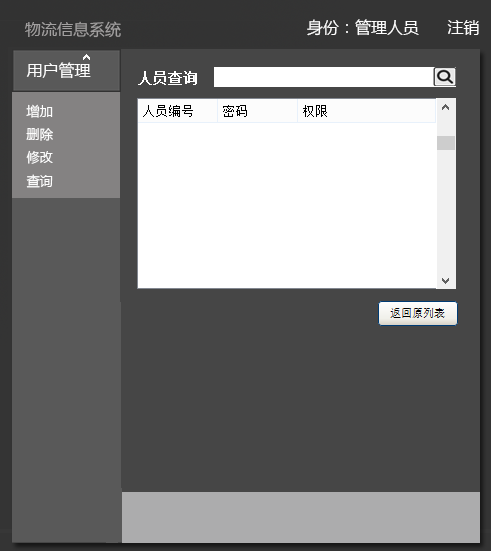
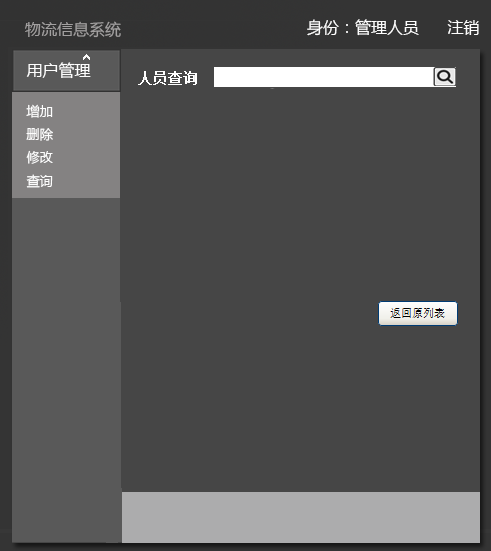
table

Changed region(s): [[0.2749, 0.1543, 0.947, 0.5245]]

diff --git a/ExpressSystem/client/src/main/java/nju/sec/yz/ExpressSystem/presentation/componentui/newTable.java b/ExpressSystem/client/src/main/java/nju/sec/yz/ExpressSystem/presentation/componentui/newTable.java
@@ -3,14 +3,28 @@ package nju.sec.yz.ExpressSystem.presentation.componentui;
  * @author YU Fan
  * @usage 用来显示带滚动条的表格
  */
+import java.awt.BasicStroke;
+import java.awt.Color;
+import java.awt.Component;
+import java.awt.Font;
+import java.awt.Graphics;
+import java.awt.Graphics2D;
+import java.awt.Stroke;
+import java.util.Vector;
+import java.util.function.UnaryOperator;
+
 import javax.swing.DefaultCellEditor;
 import javax.swing.JComboBox;
+import javax.swing.JLabel;
 import javax.swing.JPanel;
 import javax.swing.JScrollPane;
 import javax.swing.JTable;
 import javax.swing.event.TableModelEvent;
 import javax.swing.event.TableModelListener;
+import javax.swing.table.DefaultTableCellRenderer;
 import javax.swing.table.DefaultTableModel;
+import javax.swing.table.JTableHeader;
+import javax.swing.table.TableCellRenderer;
 
 public class newTable{
 	private JPanel panel;
@@ -19,8 +33,8 @@ public class newTable{
 	private DefaultTableModel model;
 	private boolean isMaker=false;//如果是制作时使用，设为true，可以扩展表格
 	private JScrollPane scroll;
-	private String[][] data={{""}};
-	private String[] name={""};
+//	private Vector<Vector<String>> data=new Vector<Vector<String>>();
+//	private Vector<String> name=new Vector<String>();
 	
 	private int x=0;
 	private int y=0;
@@ -33,20 +47,19 @@ public class newTable{
 	 * @param panel JPanel 所属Panel
 	 * @param isMaker boolean 是自制表格时使用（不是直接显示内容）
 	 */
-	public newTable(String[][] data,String[] name,JPanel panel,boolean isMaker)
+	public newTable(Vector<Vector<String>> data,Vector<String> name,JPanel panel,boolean isMaker)
 	{
 		this.panel=panel;
 		this.isMaker=isMaker;
-		showTable(data,name);
+		initialTable(data,name);
 	}
 	/**
 	 * 刷新表格
 	 * @param data String[][] 表格的新数据
 	 */
-	public void resetData(String[][] data)
+	public void resetData()
 	{
-		panel.remove(scroll);
-		showTable(data,name);
+		table.updateUI();
 	}
 	/**
 	 * 给表格某列添加下拉框
@@ -121,7 +134,9 @@ public class newTable{
 	 * @param data String[][] 表格数据
 	 * @param name String[] 表头
 	 */
-	private void showTable(final String[][] data,final String[] name)
+//	private void initialTable(final String[][] data,final String[] name)
+//	{
+	private void initialTable(final Vector<Vector<String>> data,final Vector<String> name)
 	{
 		model=new DefaultTableModel(data,name);
 		if(isMaker)
@@ -132,16 +147,89 @@ public class newTable{
 				public void tableChanged(TableModelEvent e) {
 					int num=model.getRowCount();
 					if(table.getSelectedRow()==num-1&&!((String) model.getValueAt(num-1, 0)).equals("")){
-						model.addRow(createRow(name.length)); 
+						model.addRow(createRow(name.size())); 
 						panel.repaint();
 					}
 				}
 			});
 		}
-		table=new JTable(model);
+		table=new JTable();
+		table.setModel(model);
+		
+		JTableHeader header=table.getTableHeader();
+		header.setOpaque(false);
+		header.getTable().setOpaque(false);
+		header.setDefaultRenderer(new MyTableCellRenderer(2,Color.gray,18,Color.WHITE));  
+//        TableCellRenderer headerRenderer= header.getDefaultRenderer();   
+//        if (headerRenderer instanceof JLabel)   
+//        {  
+//            ((JLabel) headerRenderer).setHorizontalAlignment(JLabel.CENTER);   
+//            ((JLabel) headerRenderer).setOpaque(false);   
+//        }  
+		
 		table.setOpaque(false);
-		table.setFont("Microsoft YaHei",);
+		table.setDefaultRenderer(Object.class,new MyTableCellRenderer(0.3,new Color(97,96,96),15,new Color(172,173,173)));
 		table.setRowHeight(20);
-		scroll=new JScrollPane(table);
-	}
+		
+		scroll=new JScrollPane();
+		scroll.setViewportView(table);
+		scroll.setOpaque(false);
+		scroll.getViewport().setOpaque(false);
+		scroll.setColumnHeaderView(table.getTableHeader());//设置头部（HeaderView部分）  
+        scroll.getColumnHeader().setOpaque(false);//再取出头部，并设置为透明  
+        
+	} 
+}
+class MyTableCellRenderer extends DefaultTableCellRenderer
+{
+	private float lineSize=1;
+	private int wordSize=15;
+	private Color lineColor=Color.gray;
+	private Color wordColor=Color.WHITE;
+	private Color selectColor=Color.WHITE;
+	private Font font=new Font("Microsoft YaHei",Font.PLAIN,15);
+	
+    public MyTableCellRenderer(double linesize,Color linecolor,int wordsize,Color wordcolor)
+    {
+    	super();
+    	lineSize=(float)linesize;
+    	wordSize=wordsize;
+    	lineColor=linecolor;
+    	wordColor=wordcolor;
+    	font=new Font("Microsoft YaHei",Font.PLAIN,wordSize);
+    	this.setOpaque(false);
+    }
+    public Component getTableCellRendererComponent(JTable table, Object value,   
+            boolean isSelected, boolean hasFocus, int row, int column)  
+    {
+		return drawCell(value,row == table.getSelectedRow());
+    }
+    private Component drawCell(Object value,boolean isSelected)
+    {
+		JLabel label = new JLabel() {
+			protected void paintComponent(Graphics g) {
+				// 重载jlabel的paintComponent方法，在这个jlabel里手动画线
+				Graphics2D g2d = (Graphics2D) g;
+				g2d.setStroke(new BasicStroke(lineSize));
+				g2d.setColor(lineColor);
+				g2d.drawLine(0, 0, this.getWidth(), 0);
+				g2d.drawLine(0, this.getHeight() - 1, this.getWidth(),
+						this.getHeight() - 1);
+				g2d.drawLine(this.getWidth() - 1, 0, this.getWidth() - 1,
+						this.getHeight() - 1);
+
+				// 一定要记得调用父类的paintComponent方法，不然它只会划线，不会显示文字
+				super.paintComponent(g);
+			}
+		};
+		label.setText(value != null ? value.toString() : "unknown");
+		label.setFont(font);
+		if (isSelected) {
+			label.setForeground(selectColor);
+		} else {
+			label.setForeground(wordColor);
+		}
+		label.setHorizontalAlignment(JLabel.CENTER);
+		return label;
+    }
 }

diff --git a/ExpressSystem/client/src/main/java/nju/sec/yz/ExpressSystem/presentation/userui/AdminstraterInquiryUi.java b/ExpressSystem/client/src/main/java/nju/sec/yz/ExpressSystem/presentation/userui/AdminstraterInquiryUi.java
@@ -6,7 +6,9 @@ import java.awt.Graphics;
 import java.awt.Image;
 import java.awt.event.MouseAdapter;
 import java.awt.event.MouseEvent;
+import java.util.ArrayList;
 import java.util.List;
+import java.util.Vector;
 
 import javax.swing.ImageIcon;
 import javax.swing.JButton;
@@ -21,6 +23,7 @@ import nju.sec.yz.ExpressSystem.blservice.userBlService.UserBlService;
 import nju.sec.yz.ExpressSystem.common.Result;
 import nju.sec.yz.ExpressSystem.common.ResultMessage;
 import nju.sec.yz.ExpressSystem.common.Status;
+import nju.sec.yz.ExpressSystem.presentation.componentui.newTable;
 import nju.sec.yz.ExpressSystem.presentation.controlerui.AdminstraterControler;
 import nju.sec.yz.ExpressSystem.presentation.controlerui.ClientControler;
 import nju.sec.yz.ExpressSystem.vo.UserVO;
@@ -33,12 +36,11 @@ public class AdminstraterInquiryUi extends JPanel{
 	
 	private JTextField input;
 	private JButton search;
-	private JTable table;
-	private JScrollPane scroll;
+	private newTable table;
 	private JButton back;
 	private JLabel warning;
-	private String[] name={"编号","密码","权限","姓名"};
-	private String[][] data={{"","","",""}};
+	private Vector<String> name=new Vector<String>();
+	private Vector<Vector<String>> data=new Vector<Vector<String>>();
 	private List<UserVO> uvl;
 	
 	private static final int input_x=214;
@@ -73,15 +75,7 @@ public class AdminstraterInquiryUi extends JPanel{
 		this.controler=mainControler.adminstraterControler;
 		userBl=new UserController();
 		uvl=userBl.getAll();
-		int n=uvl.size();
-		data=new String[n][4];
-		for(int i=0;i<n;i++)
-		{
-			data[i][0]=uvl.get(i).getId();
-			data[i][1]=uvl.get(i).getPassword();
-			data[i][2]=getStatus(uvl.get(i));
-			data[i][3]=uvl.get(i).getName();
-		}
+		changeData(uvl);
 		initAdminstraterUi();
 	}
 	private void initAdminstraterUi()
@@ -100,26 +94,17 @@ public class AdminstraterInquiryUi extends JPanel{
 		search.addMouseListener(new MouseAdapter(){
 			public void mouseClicked(MouseEvent e)
 			{
-				UserVO uv=userBl.getSingle(input.getText());
-				if(getStatus(uv)!=null)
-				{
-					data=new String[][]{{uv.getId(),uv.getPassword(),getStatus(uv),uv.getName()}};
-					remove(scroll);
-					table=new JTable(data,name);
-					table.setRowHeight(20);
-					scroll=new JScrollPane(table);
-					scroll.setBounds(scroll_x, scroll_y, scroll_w, scroll_h);
-					add(scroll);
-				}
+				uvl=new ArrayList<UserVO>();
+				uvl.add(userBl.getSingle(input.getText()));
+				changeData(uvl);
+				table.resetData();
 			}
 		});
 		add(search);
 		
-		table=new JTable(data,name);
-		table.setRowHeight(20);
-		scroll=new JScrollPane(table);
-		scroll.setBounds(scroll_x, scroll_y, scroll_w, scroll_h);
-		add(scroll);
+		table=new newTable(data,name,this,false);
+		table.setBounds(scroll_x, scroll_y, scroll_w, scroll_h);
+		table.join();
 		
 		back=new JButton(backIcon);
 		back.setBounds(back_x, back_y, back_w, back_h);
@@ -127,21 +112,8 @@ public class AdminstraterInquiryUi extends JPanel{
 			public void mouseClicked(MouseEvent e)
 			{
 				uvl=userBl.getAll();
-				int n=uvl.size();
-				data=new String[n][4];
-				for(int i=0;i<n;i++)
-				{
-					data[i][0]=uvl.get(i).getId();
-					data[i][1]=uvl.get(i).getPassword();
-					data[i][2]=getStatus(uvl.get(i));
-					data[i][3]=uvl.get(i).getName();
-				}
-				remove(scroll);
-				table=new JTable(data,name);
-				table.setRowHeight(20);
-				scroll=new JScrollPane(table);
-				scroll.setBounds(scroll_x, scroll_y, scroll_w, scroll_h);
-				add(scroll);
+				changeData(uvl);
+				table.resetData();
 			}
 		});
 		add(back);
@@ -155,7 +127,25 @@ public class AdminstraterInquiryUi extends JPanel{
 		
 		setVisible(true);
 	}
-	public String getStatus(UserVO uv){
+	private void changeData(List<UserVO> uvl)
+	{
+		data.removeAllElements();
+		int n=uvl.size();
+		name.add("编号");
+		name.add("密码");
+		name.add("权限");
+		name.add("姓名");
+		for(int i=0;i<n;i++)
+		{
+			Vector<String> vector=new Vector<String>();
+			vector.add(uvl.get(i).getId());
+			vector.add(uvl.get(i).getPassword());
+			vector.add(getStatus(uvl.get(i)));
+			vector.add(uvl.get(i).getName());
+			data.add(vector);
+		}
+	}
+	private String getStatus(UserVO uv){
 		if(uv!=null)
 		{
 			Status po=uv.getPower();

diff --git a/ExpressSystem/client/src/main/java/nju/sec/yz/ExpressSystem/presentation/positionui/PositionLoadUi.java b/ExpressSystem/client/src/main/java/nju/sec/yz/ExpressSystem/presentation/positionui/PositionLoadUi.java
@@ -8,6 +8,7 @@ import java.awt.event.MouseAdapter;
 import java.awt.event.MouseEvent;
 import java.util.ArrayList;
 import java.util.List;
+import java.util.Vector;
 
 import javax.swing.ImageIcon;
 import javax.swing.JButton;
@@ -46,7 +47,6 @@ public class PositionLoadUi extends JPanel{
 	private ArrayList<String> bars;
 
 	private JComboBox JCdestination;
-//	private JTextField JTtransportId;
 	private JLabel JLtransportId;
 	private JTextField JTPositionId;
 	private JTextField JTCarId;
@@ -58,8 +58,8 @@ public class PositionLoadUi extends JPanel{
 	private JTable barIds;
 	private JButton confirm;
 	private JLabel warning;
-	private String[] name={"订单条形码号"};
-	private String[][] data={{""}};
+	private Vector<String> name=new Vector<String>();
+	private Vector<Vector<String>> data=new Vector<Vector<String>>();
 	private DefaultTableModel model;
 
 	private static final int destination_x=193;
@@ -123,6 +123,10 @@ public class PositionLoadUi extends JPanel{
 		this.bc=bc;
 		bars=new ArrayList<String>();
 		date=new DateChooser(this,207,170);
+		name.add("订单条形码号");
+		Vector<String> vector=new Vector<String>();
+		vector.add("");
+		data.add(vector);
 		initDeliverMainUi();
 	}
 
@@ -150,9 +154,6 @@ public class PositionLoadUi extends JPanel{
 		JTPositionId.setBounds(positionId_x,positionId_y,positionId_w,positionId_h);
 		add(JTPositionId);
 		
-//		JTtransportId = new JTextField();
-//		JTtransportId.setBounds(transportId_x,transportId_y,transportId_w,transportId_h);
-//		add(JTtransportId);
 		JLtransportId=new JLabel();
 		JLtransportId.setBounds(transportId_x, transportId_y, transportId_w, transportId_h);
 		JLtransportId.setFont(new Font("Dialog", 1, 15));
@@ -172,28 +173,9 @@ public class PositionLoadUi extends JPanel{
 		JTsuperviserId.setBounds(superviserId_x,superviserId_y,superviserId_w,superviserId_h);
 		add(JTsuperviserId);
 		
-		/*model=new DefaultTableModel(data,name);
-		barIds=new JTable(model);
-		model.addTableModelListener(new TableModelListener(){
-			@Override
-			public void tableChanged(TableModelEvent e) {
-				// TODO Auto-generated method stub
-				int num=model.getRowCount();
-				String temp=(String) model.getValueAt(num-1, 0);
-				if(temp!=""){
-					String[] conponent={""};
-					((DefaultTableModel) model).addRow(conponent); 
-				}
-				repaint();
-			}
-		});
-		scroller=new JScrollPane(barIds);
-		scroller.setBounds(scroll_x,scroll_y,scroll_w,scroll_h);
-		add(scroller);*/
 		newTable table=new newTable(data,name,this,true);
 		table.setBounds(scroll_x, scroll_y, scroll_w, scroll_h);
 		table.join();
-		//上面用来实验newTable
 		
 		warning=new JLabel();
 		warning.setBounds(warning_x, warning_y, warning_w, warning_h);
